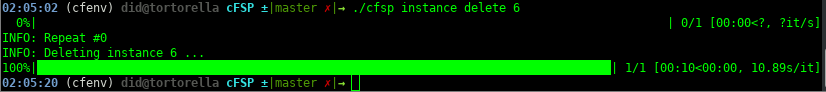
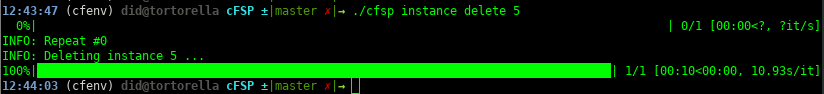
Fixed consistency of instance 5.

diff --git a/README.md b/README.md
@@ -219,10 +219,10 @@ Assuming you want to create an instance
 
 ### Get an instance
 
-Assuming you want to get the details of the previously created instance with id `6`
+Assuming you want to get the details of the previously created instance with id `5`
 
 ```bash
-./cfsp instance get 6
+./cfsp instance get 5
 ```
 
 ![cfsp-instance-get](doc/img/11.png)
@@ -230,10 +230,10 @@ Assuming you want to get the details of the previously created instance with id 
 
 ### Delete an instance
 
-Assuming you want to delete the previously created instance with id `6`
+Assuming you want to delete the previously created instance with id `5`
 
 ```bash
-./cfsp instance delete 6
+./cfsp instance delete 5
 ```
 
 ![cfsp-instance-delete](doc/img/12.png)
